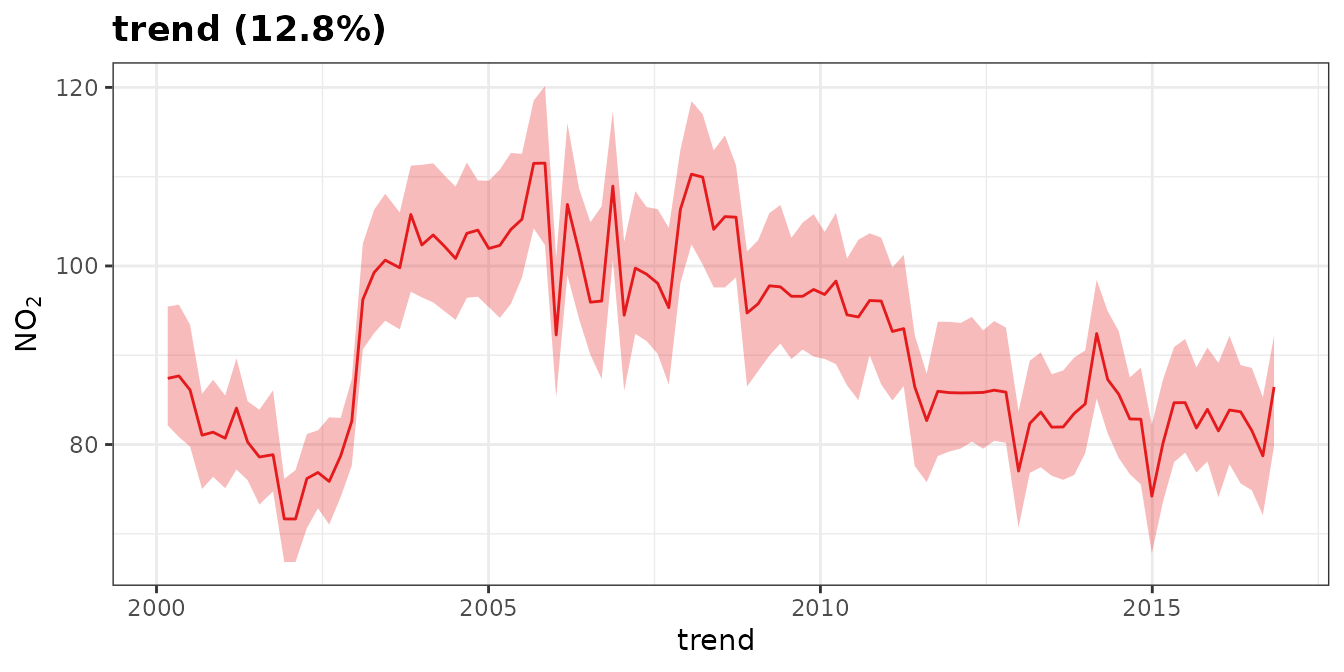
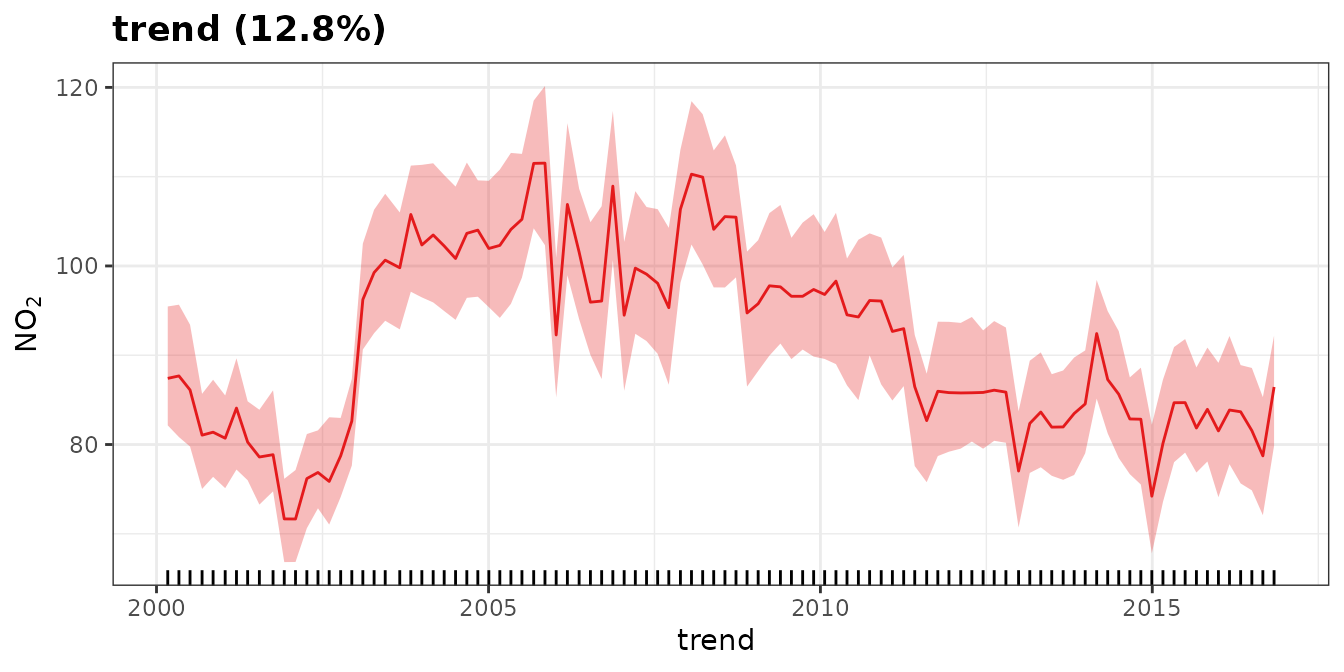
Deploying to gh-pages from @ openair-project/deweather@c3859a635b752a9c8da76ce877050233fac3b7a3 🚀

Changed region(s): [[0.125, 0.8438, 0.9688, 0.875]]

diff --git a/reference/plot_dw_partial_1d.html b/reference/plot_dw_partial_1d.html
@@ -80,9 +80,11 @@ over the effects of all other variables.</p>
 <span>  group <span class="op">=</span> <span class="cn">NULL</span>,</span>
 <span>  group_intervals <span class="op">=</span> <span class="fl">3L</span>,</span>
 <span>  show_conf_int <span class="op">=</span> <span class="cn">TRUE</span>,</span>
+<span>  show_rug <span class="op">=</span> <span class="cn">TRUE</span>,</span>
 <span>  n <span class="op">=</span> <span class="cn">NULL</span>,</span>
 <span>  prop <span class="op">=</span> <span class="fl">0.01</span>,</span>
 <span>  cols <span class="op">=</span> <span class="st">"Set1"</span>,</span>
+<span>  ylim <span class="op">=</span> <span class="cn">NULL</span>,</span>
 <span>  radial_wd <span class="op">=</span> <span class="cn">TRUE</span>,</span>
 <span>  ncol <span class="op">=</span> <span class="cn">NULL</span>,</span>
 <span>  nrow <span class="op">=</span> <span class="cn">NULL</span>,</span>
@@ -126,6 +128,11 @@ shown? In <code>plot_dw_partial_1d()</code> these are shown using transparent ri
 (for numeric variables) and rectangles (for categorical variables).</p></dd>
 
 
+<dt id="arg-show-rug">show_rug<a class="anchor" aria-label="anchor" href="#arg-show-rug"></a></dt>
+<dd><p>Should a 'rug' (ticks along the x-axis) be shown which
+identifies the exact intervals for each parameter?</p></dd>
+
+
 <dt id="arg-n">n<a class="anchor" aria-label="anchor" href="#arg-n"></a></dt>
 <dd><p>The number of observations to use for calculating the partial
 dependence profile. If <code>NULL</code> (default), uses <code>prop</code> to determine the
@@ -140,6 +147,13 @@ Ignored if <code>n</code> is specified.</p></dd>
 
 <dt id="arg-cols">cols<a class="anchor" aria-label="anchor" href="#arg-cols"></a></dt>
 <dd><p>Colours to use for plotting. See <code><a href="https://openair-project.github.io/openair/reference/openColours.html" class="external-link">openair::openColours()</a></code>.</p></dd>
+
+
+<dt id="arg-ylim">ylim<a class="anchor" aria-label="anchor" href="#arg-ylim"></a></dt>
+<dd><p>The limits of the y-axis. Passed to the <code>ylim</code> argument of
+<code><a href="https://ggplot2.tidyverse.org/reference/coord_cartesian.html" class="external-link">ggplot2::coord_cartesian()</a></code> (or <code>rlim</code> of <code><a href="https://ggplot2.tidyverse.org/reference/coord_radial.html" class="external-link">ggplot2::coord_radial()</a></code> if
+<code>radial_wd</code> is <code>TRUE</code>). The default, <code>NULL</code>, allows each partial dependence
+panel to have its own y-axis scale.</p></dd>
 
 
 <dt id="arg-radial-wd">radial_wd<a class="anchor" aria-label="anchor" href="#arg-radial-wd"></a></dt>

diff --git a/reference/plot_dw_partial_1d.md b/reference/plot_dw_partial_1d.md
@@ -15,9 +15,11 @@ plot_dw_partial_1d(
   group = NULL,
   group_intervals = 3L,
   show_conf_int = TRUE,
+  show_rug = TRUE,
   n = NULL,
   prop = 0.01,
   cols = "Set1",
+  ylim = NULL,
   radial_wd = TRUE,
   ncol = NULL,
   nrow = NULL,
@@ -59,6 +61,11 @@ plot_dw_partial_1d(
   `plot_dw_partial_1d()` these are shown using transparent ribbons (for
   numeric variables) and rectangles (for categorical variables).
 
+- show_rug:
+
+  Should a 'rug' (ticks along the x-axis) be shown which identifies the
+  exact intervals for each parameter?
+
 - n:
 
   The number of observations to use for calculating the partial
@@ -75,6 +82,15 @@ plot_dw_partial_1d(
 
   Colours to use for plotting. See
   [`openair::openColours()`](https://openair-project.github.io/openair/reference/openColours.html).
+
+- ylim:
+
+  The limits of the y-axis. Passed to the `ylim` argument of
+  [`ggplot2::coord_cartesian()`](https://ggplot2.tidyverse.org/reference/coord_cartesian.html)
+  (or `rlim` of
+  [`ggplot2::coord_radial()`](https://ggplot2.tidyverse.org/reference/coord_radial.html)
+  if `radial_wd` is `TRUE`). The default, `NULL`, allows each partial
+  dependence panel to have its own y-axis scale.
 
 - radial_wd:
 
